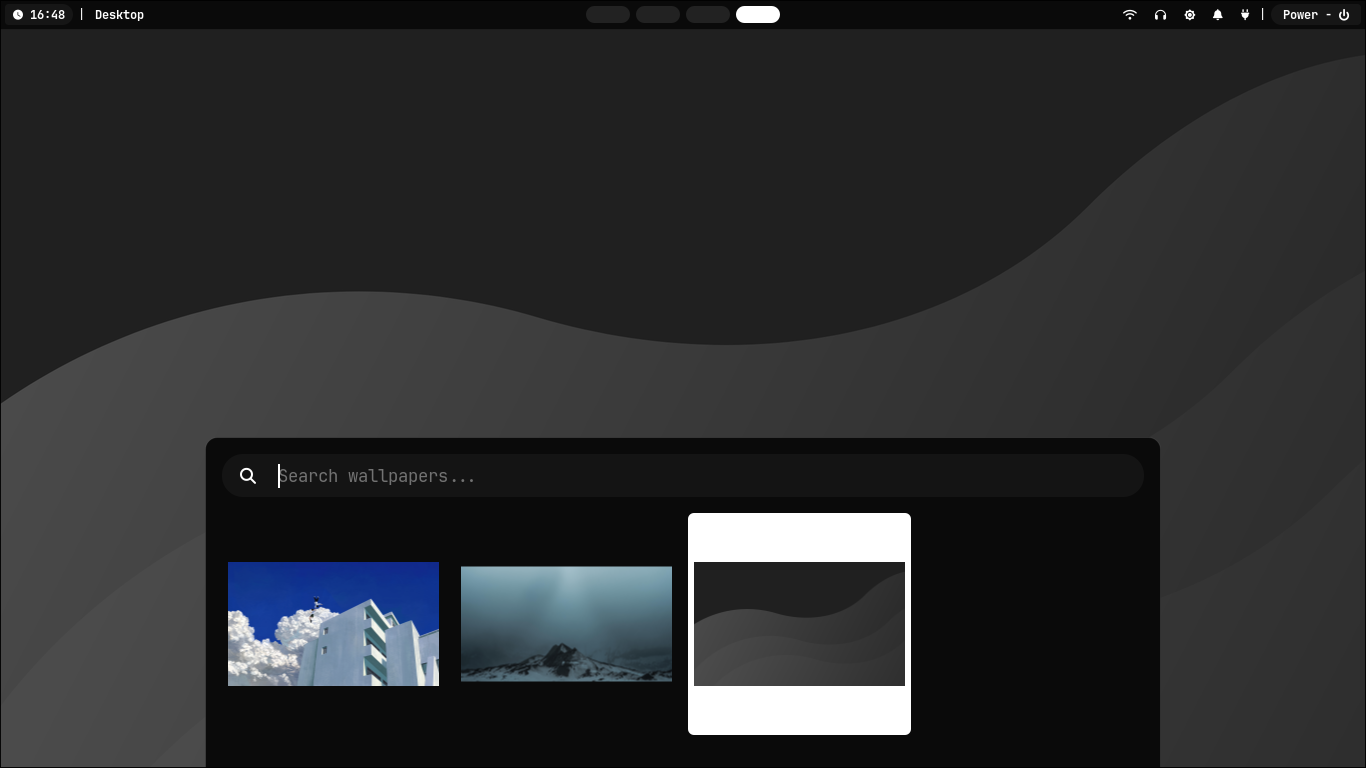
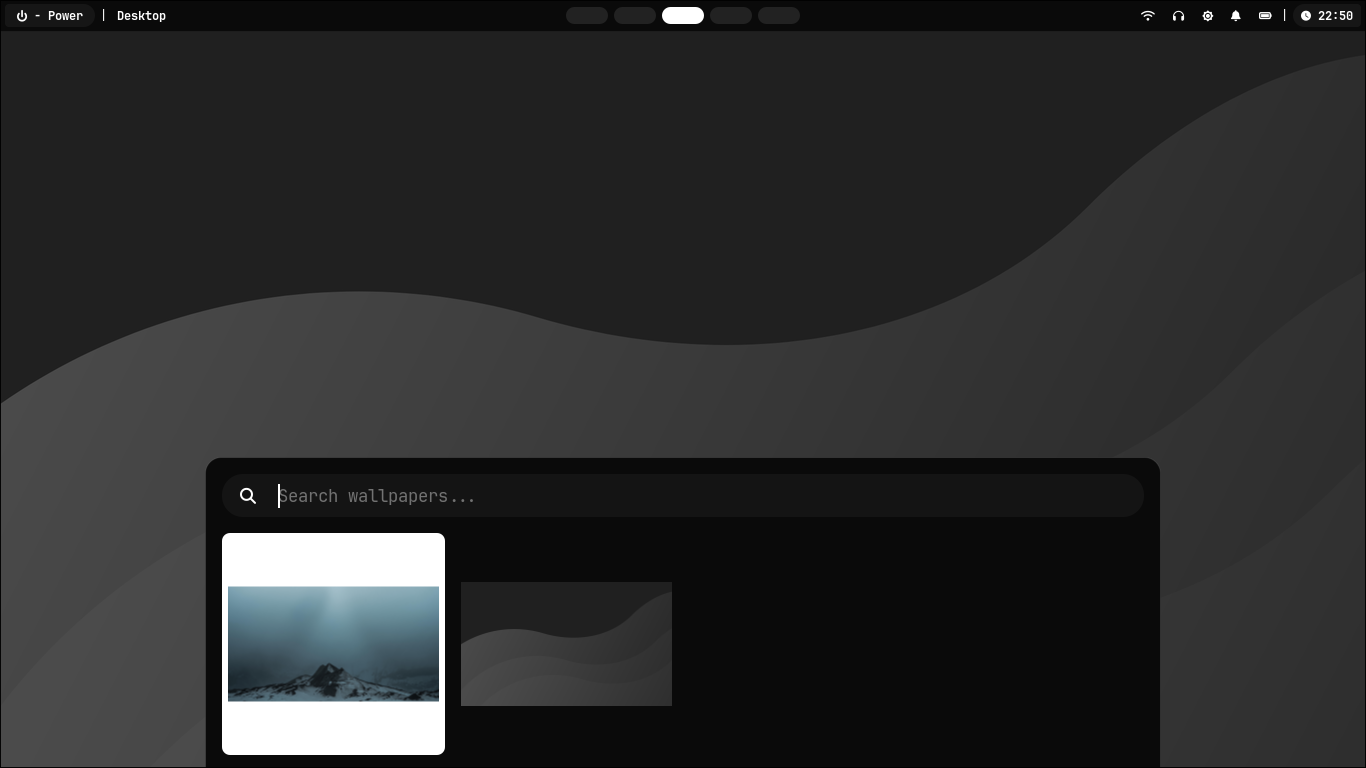
mexendo no design

diff --git a/config/waybar/style.css b/config/waybar/style.css
@@ -42,12 +42,12 @@ window#waybar > box {
 #workspaces {
     background: transparent;
     margin: 2px 4px;
-    padding: 2px;
+    padding: 3px;
     border-radius: 10px;
 }
 
 #workspaces button {
-    padding: 0 12px;
+    padding: 0 11px;
     margin: 0 3px;
     border-radius: 16px;
     background: rgba(255, 255, 255, 0.1);
@@ -85,10 +85,10 @@ window#waybar > box {
 #clock {
     background: rgba(255, 255, 255, 0.05);
     color: #ffffff;
-    border-radius: 4px 12px 12px 4px;
+    border-radius: 12px 4px 4px 12px;
     padding: 0 8px;
     margin: 2px 3px;
-    font-weight: bold;
+    font-weight: bolder;
 }
 
 #tray {
@@ -100,10 +100,10 @@ window#waybar > box {
 #custom-power {
     background: rgba(255, 255, 255, 0.05);
     color: #ffffff;
-    border-radius: 12px 4px 4px 12px;
+    border-radius: 4px 12px 12px 4px;
     padding: 0 12px;
     margin: 2px 3px;
-    font-weight: bold;
+    font-weight: bolder;
 }
 
 button:hover,
@@ -154,4 +154,3 @@ tooltip label {
     50%  { color: #000000; background: #ffffff; }
     100% { color: #ffffff; background: rgba(255, 255, 255, 0.1); }
 }
-

diff --git a/config/swaync/style.css b/config/swaync/style.css
@@ -38,13 +38,13 @@ blankwindow,
 }
 
 .floating-notifications .notification {
-  margin: 4px 8px;
+  margin: 4px;
 }
 
 .control-center {
   background: rgba(10, 10, 10, 1);
   border: 1px solid rgba(26, 26, 26, 1);
-  border-radius: 16px;
+  border-radius: 16px 0px 0px 16px;
 }
 
 .control-center .control-center-list-placeholder {

diff --git a/config/swayosd/style.css b/config/swayosd/style.css
@@ -10,7 +10,7 @@ window {
 #osd {
     background: rgba(10, 10, 10, 1);
     border: 1px solid rgba(255, 255, 255, 0.08);
-    border-radius: 12px;
+    border-radius: 16px;
     padding: 2px 10px;
     box-shadow: transparent;
 }
